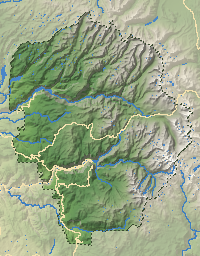
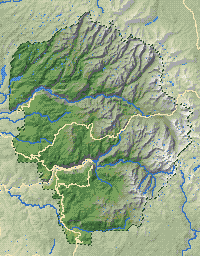
Draw the park map as pixel art, in the game's frames
The reviews found the park travel map a smooth photographic relief in a
thin flat frame. tools/mapgen/pixel_map.py now snaps it to a small
palette of shade ramps (forest, meadow, the faded country outside the
park, granite and snow, water, roads, ink) with ordered dithering, so it
reads as pixel art; nothing moves, and a second run changes nothing. Its
note panel uses the game's wood-and-gold frame, and the Valley map's
footer strip the same board with a gold edge.

Claude-Session: https://claude.ai/code/session_01M5wgZc4kqDWSGqJHrJuXRG

diff --git a/tools/mapgen/pixel_map.py b/tools/mapgen/pixel_map.py
@@ -1,0 +1,68 @@
+"""Turns the park map's smooth hillshade into pixel art, after mapgen has drawn it.
+
+    python3 tools/mapgen/pixel_map.py
+
+The map comes out of `godot ... mapgen.tscn -- art park` as a smooth relief
+picture with thousands of colours, which looked like a photograph next to the
+rest of the game. This snaps every pixel to a small palette of shade ramps in
+the game's style (forest, meadow, the faded country outside the park, granite
+and snow, water, roads, ink) with a 4x4 ordered dither between neighbouring
+shades, the way pixel artists render a gradient. Nothing moves, so the markers and labels ParkMap draws stay put.
+Running it again changes nothing.
+"""
+import os
+import sys
+
+import numpy as np
+from PIL import Image
+
+PATH = os.path.join(os.path.dirname(__file__), "..", "..", "assets", "map", "park_map.png")
+
+# Shade ramps, darkest first. Kept short, like a hand-picked pixel palette.
+PALETTE_HEX = [
+    # forest
+    "1c3424", "2a4c2e", "3e6838", "56844a", "7aa25e",
+    # the faded country outside the park
+    "8e9a78", "a6b490", "bac6a0", "ced2b0", "e0e0c4",
+    # meadow and foothill grass
+    "8a9450", "a8b062", "c8c888", "e2dcae",
+    # granite, scree and snow
+    "3e3e46", "5c5c64", "80808a", "a8a8ae", "cecece", "f0f0ec",
+    # water
+    "234e94", "3470c0", "5a98dc", "9ac4ec",
+    # roads and the park line
+    "c8a868", "e6cc92", "f6e6b6",
+    # ink: borders and shadows
+    "2a1f1a", "4a3a2c",
+]
+PALETTE = np.array([[int(h[i:i + 2], 16) for i in (0, 2, 4)] for h in PALETTE_HEX], dtype=np.float32)
+
+# 4x4 Bayer matrix, centred on zero.
+BAYER = (np.array([[0, 8, 2, 10], [12, 4, 14, 6], [3, 11, 1, 9], [15, 7, 13, 5]], dtype=np.float32) + 0.5) / 16.0 - 0.5
+# How far the dither nudges a pixel before it is snapped (in 0-255 units).
+SPREAD = 14.0
+
+
+def main(path: str) -> None:
+    im = Image.open(path).convert("RGBA")
+    a = np.asarray(im).astype(np.float32)
+    rgb, alpha = a[..., :3], a[..., 3:]
+    h, w = rgb.shape[:2]
+    # Already a palette picture (a second run): leave it alone.
+    flat = rgb.reshape(-1, 3)
+    if np.all(np.min(((flat[:, None, :] - PALETTE[None, :, :]) ** 2).sum(-1), axis=1) < 1.0):
+        print("%s is already pixel-graded" % path)
+        return
+    threshold = np.tile(BAYER, (h // 4 + 1, w // 4 + 1))[:h, :w][..., None]
+    nudged = rgb + threshold * SPREAD
+    # nearest palette colour, weighting green the way the eye does
+    weight = np.array([0.3, 0.59, 0.11], dtype=np.float32) * 3.0
+    d = (((nudged[:, :, None, :] - PALETTE[None, None, :, :]) ** 2) * weight).sum(-1)
+    snapped = PALETTE[np.argmin(d, axis=-1)]
+    out = np.concatenate([snapped, alpha], axis=-1).clip(0, 255).astype(np.uint8)
+    Image.fromarray(out, "RGBA").save(path)
+    print("Pixel-graded %s (%d colours)" % (path, len(PALETTE_HEX)))
+
+
+if __name__ == "__main__":
+    main(sys.argv[1] if len(sys.argv) > 1 else PATH)

diff --git a/README.md b/README.md
@@ -103,6 +103,7 @@ godot --headless --path . res://tools/mapgen/mapgen.tscn -- art park regions
 
 - Hub bounds, scale, and walkable elevation band are in `data/park/hubs/*.tres`.
 - Signs, place names, kiosks, spawn points, and where roads lead are in `tools/mapgen/hub_content.gd`.
+- After an `art park` run, `python3 tools/mapgen/pixel_map.py` turns the park map's smooth relief into pixel art (a small palette of shade ramps with ordered dithering; nothing moves).
 - Downloads are cached in `tools/mapgen/cache/`, which is git-ignored. The first run needs an internet connection.
 - To add a new area, such as Half Dome's summit for a climb, add a `HubData` (use `road_access = false` for climb-only areas) and an entry in `hub_content.gd`, then regenerate.
 
